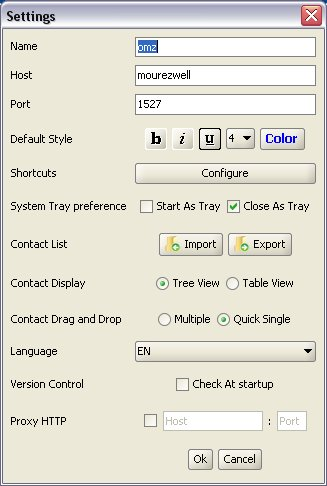
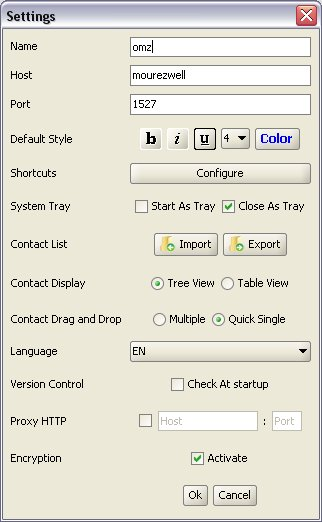
version 1.2 : Documentation update

diff --git a/doc/documentation.html b/doc/documentation.html
@@ -88,7 +88,8 @@
 					<li> <a href="#Q18">How to use HTTP proxy ?</a></li>
 					<li> <a href="#Q19">How to control that current is up to date ?</a></li>
 					<li> <a href="#Q20">How to send offline message ?</a></li>
-                  </ol>
+					<li> <a href="#Q20">How to send encrypted messages ?</a></li>
+				  </ol>
                   <h5>Answers</h5>
                   <ol>
                     <li> <a name="Q1"/><b>How to install Lanslim ?</b></li>
@@ -274,9 +275,9 @@
                       ?</a></b></li>
                     <br/>
                     There are three different availabilities : ONLINE <img src="images/accept.png"/>, 
-                    OFFLINE <img src="images/remove.png"/> and UNKNOWN <img src="images/info.png"/> 
-                    used for groups<br/>
-                    &nbsp; 
+                    ENCRYPTED <img src="images/accept_locked.png"/>, 
+                    OFFLINE <img src="images/remove.png"/> 
+                    and UNKNOWN <img src="images/info.png"/> used for groups <br/> &nbsp; 
                     <li> <a name="Q17"/><b>How to add a new language ?</a></b></li>
                     <br/>
                     You can open the excutable with winzip and find the message 
@@ -305,6 +306,13 @@
 					Moreover offline users will be excluded from talk as soon as the talk leader left the talk. <br/>
 					Note that online users appear in bold in the PeopleInArea whereas offline ones appear in plain. <br/>
 					Note also that it is still impossible to invite offline users, but it is possible to exclude them.
+					<br/> &nbsp; 
+					<li> <a name="#Q21"><b>How to send encrypted messages ?</b></a></li>
+					<br/>
+					To exchange encrypted messages, you and your correspondant shall activate encryption in Settings menu.
+					If one of the two sides has not activated encrytion, messages will not be encrypted.<br/>
+					Note : in a group talk you will be able to send/receive both clear and encrypted messages
+					depending on the encryption ability of the sender/receiver.
 					<br/> &nbsp; 
 					</ol>
 				</tr> 

diff --git a/doc/about.html b/doc/about.html
@@ -162,6 +162,9 @@
 					- Add offline message queue management <br/>
 					- Add http proxy settings <br/>
 					&nbsp;
+                    <li> V1.2 </li> (2009/02/02)<br/>
+					- Add message encryption <br/>
+					&nbsp;
                   </ul>
 				</tr> 
               <tr> 
